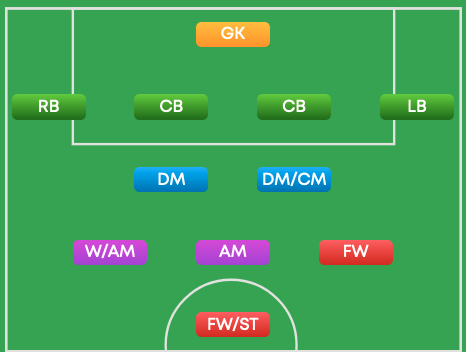
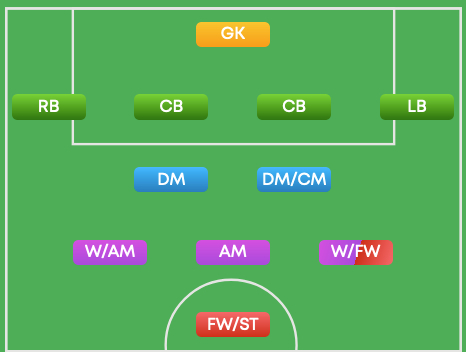
Update modules (#460)
* Update modules

* Update specs

Changed region(s): [[0.5408, 0.4688, 0.721, 0.5625], [0.2704, 0.4688, 0.4506, 0.5625], [0.6609, 0.6562, 0.8412, 0.75]]

diff --git a/public/javascripts/lib/GetFilledFormations.js b/public/javascripts/lib/GetFilledFormations.js
@@ -1,35 +1,35 @@
 const formations = {
     f343: {
-        lineUp: ['Dc', 'Dc', 'Dc', 'E', 'E', 'M/C', 'C', 'W/A', 'W/A', 'A/Pc' ],
-        lineUpWithReserve: ['Dc', 'Dc', 'Dc', 'E', 'E', 'M/C', 'C', 'W/A', 'W/A', 'A/Pc' , 'Dc', 'Dc', 'Dc', 'E', 'E', 'M/C', 'C', 'W/A', 'W/A', 'A/Pc'],
+        lineUp: ['Dc', 'Dc', 'Dc', 'E', 'E', 'M/C', 'C', 'W/A', 'W/A', 'A/Pc'],
+        lineUpWithReserve: ['Dc', 'Dc', 'Dc', 'E', 'E', 'M/C', 'C', 'W/A', 'W/A', 'A/Pc' , 'Dc', 'Dc', 'Dc', 'E', 'E', 'M/C', 'C', 'W/A', 'W/A', 'A/Pc']
     },
     f3412: {
-        lineUp: ['Dc', 'Dc', 'Dc', 'E', 'E', 'M/C', 'C', 'T', 'A/Pc', 'A/Pc' ],
-        lineUpWithReserve: ['Dc', 'Dc', 'Dc', 'E', 'E', 'M/C', 'C', 'T', 'A/Pc', 'A/Pc', 'Dc', 'Dc', 'Dc', 'E', 'E', 'M/C', 'C', 'T', 'A/Pc', 'A/Pc' ],
+        lineUp: ['Dc', 'Dc', 'Dc', 'E', 'E', 'M/C', 'C', 'T', 'A/Pc', 'Pc'],
+        lineUpWithReserve: ['Dc', 'Dc', 'Dc', 'E', 'E', 'M/C', 'C', 'T', 'A/Pc', 'Pc', 'Dc', 'Dc', 'Dc', 'E', 'E', 'M/C', 'C', 'T', 'A/Pc', 'Pc']
     },
     f3421: {
-        lineUp: ['Dc', 'Dc', 'Dc', 'E', 'E/W', 'M/C', 'M', 'T', 'T/A', 'A/Pc' ],
+        lineUp: ['Dc', 'Dc', 'Dc', 'E', 'E/W', 'M/C', 'M', 'T', 'T/A', 'A/Pc'],
         lineUpWithReserve: ['Dc', 'Dc', 'Dc', 'E', 'E/W', 'M/C', 'M', 'T', 'T/A', 'A/Pc' , 'Dc', 'Dc', 'Dc', 'E', 'E/W', 'M/C', 'M', 'T', 'T/A', 'A/Pc']
     },
     f352: {
-        lineUp: ['Dc', 'Dc', 'Dc', 'E', 'M', 'M/C', 'C', 'E/W', 'A/Pc', 'A/Pc' ] ,
-        lineUpWithReserve: ['Dc', 'Dc', 'Dc', 'E', 'M', 'M/C', 'C', 'E/W', 'A/Pc', 'A/Pc' , 'Dc', 'Dc', 'Dc', 'E', 'M', 'M/C', 'C', 'E/W', 'A/Pc', 'A/Pc' ]
+        lineUp: ['Dc', 'Dc', 'Dc', 'E', 'M', 'M/C', 'C', 'E/W', 'A/Pc', 'Pc'] ,
+        lineUpWithReserve: ['Dc', 'Dc', 'Dc', 'E', 'M', 'M/C', 'C', 'E/W', 'A/Pc', 'Pc' , 'Dc', 'Dc', 'Dc', 'E', 'M', 'M/C', 'C', 'E/W', 'A/Pc', 'Pc']
     },
     f3511: {
-        lineUp: ['Dc', 'Dc', 'Dc', 'E/W', 'M', 'M', 'C', 'E/W', 'T/A', 'A/Pc' ],
-        lineUpWithReserve: ['Dc', 'Dc', 'Dc', 'E/W', 'M', 'M', 'C', 'E/W', 'T/A', 'A/Pc', 'Dc', 'Dc', 'Dc', 'E/W', 'M', 'M', 'C', 'E/W', 'T/A', 'A/Pc' ]
+        lineUp: ['Dc', 'Dc', 'Dc', 'E/W', 'M', 'M', 'C', 'E/W', 'T/A', 'A/Pc'],
+        lineUpWithReserve: ['Dc', 'Dc', 'Dc', 'E/W', 'M', 'M', 'C', 'E/W', 'T/A', 'A/Pc', 'Dc', 'Dc', 'Dc', 'E/W', 'M', 'M', 'C', 'E/W', 'T/A', 'A/Pc']
     },
     f433: {
-        lineUp: ['Dc', 'Dc', 'Ds', 'Dd', 'M', 'M/C', 'C', 'W/A', 'W/A', 'A/Pc' ],
-        lineUpWithReserve: ['Dc', 'Dc', 'Ds', 'Dd', 'M', 'M/C', 'C', 'W/A', 'W/A', 'A/Pc', 'Dc', 'Dc', 'Ds', 'Dd', 'M', 'M/C', 'C', 'W/A', 'W/A', 'A/Pc' ]
+        lineUp: ['Dc', 'Dc', 'Ds', 'Dd', 'M', 'M/C', 'C', 'W/A', 'W/A', 'A/Pc'],
+        lineUpWithReserve: ['Dc', 'Dc', 'Ds', 'Dd', 'M', 'M/C', 'C', 'W/A', 'W/A', 'A/Pc', 'Dc', 'Dc', 'Ds', 'Dd', 'M', 'M/C', 'C', 'W/A', 'W/A', 'A/Pc']
     },
     f4312: {
-        lineUp: ['Dc', 'Dc', 'Ds', 'Dd', 'M', 'M/C', 'C', 'T', 'A/Pc', 'A/Pc' ],
-        lineUpWithReserve: ['Dc', 'Dc', 'Ds', 'Dd', 'M', 'M/C', 'C', 'T', 'A/Pc', 'A/Pc', 'Dc', 'Dc', 'Ds', 'Dd', 'M', 'M/C', 'C', 'T', 'A/Pc', 'A/Pc' ]
+        lineUp: ['Dc', 'Dc', 'Ds', 'Dd', 'M', 'M/C', 'C', 'T', 'A/Pc', 'Pc'],
+        lineUpWithReserve: ['Dc', 'Dc', 'Ds', 'Dd', 'M', 'M/C', 'C', 'T', 'A/Pc', 'Pc', 'Dc', 'Dc', 'Ds', 'Dd', 'M', 'M/C', 'C', 'T', 'A/Pc', 'Pc']
     },
     f442: {
-        lineUp: ['Dc', 'Dc', 'Ds', 'Dd', 'E', 'M/C', 'C', 'E/W', 'A/Pc', 'A/Pc'],
-        lineUpWithReserve: ['Dc', 'Dc', 'Ds', 'Dd', 'E', 'M/C', 'C', 'E/W', 'A/Pc', 'A/Pc', 'Dc', 'Dc', 'Ds', 'Dd', 'E', 'M/C', 'C', 'E/W', 'A/Pc', 'A/Pc']
+        lineUp: ['Dc', 'Dc', 'Ds', 'Dd', 'E', 'M/C', 'C', 'E/W', 'A/Pc', 'Pc'],
+        lineUpWithReserve: ['Dc', 'Dc', 'Ds', 'Dd', 'E', 'M/C', 'C', 'E/W', 'A/Pc', 'Pc', 'Dc', 'Dc', 'Ds', 'Dd', 'E', 'M/C', 'C', 'E/W', 'A/Pc', 'Pc']
     },
     f4141: {
         lineUp: ['Dc', 'Dc', 'Ds', 'Dd', 'M', 'E/W', 'C/T', 'T', 'W', 'A/Pc'],
@@ -40,8 +40,12 @@ const formations = {
         lineUpWithReserve: ['Dc', 'Dc', 'Ds', 'Dd', 'M', 'E/W', 'C', 'E/W', 'T/A', 'A/Pc', 'Dc', 'Dc', 'Ds', 'Dd', 'M', 'E/W', 'C', 'E/W', 'T/A', 'A/Pc']
     },
     f4231: {
-        lineUp: ['Dc', 'Dc', 'Ds', 'Dd', 'M', 'M/C', 'W/T', 'T', 'A', 'A/Pc'],
-        lineUpWithReserve: ['Dc', 'Dc', 'Ds', 'Dd', 'M', 'M/C', 'W/T', 'T', 'A', 'A/Pc', 'Dc', 'Dc', 'Ds', 'Dd', 'M', 'M/C', 'W/T', 'T', 'A', 'A/Pc']
+        lineUp: ['Dc', 'Dc', 'Ds', 'Dd', 'M', 'M/C', 'W/T', 'T', 'W/A', 'A/Pc'],
+        lineUpWithReserve: ['Dc', 'Dc', 'Ds', 'Dd', 'M', 'M/C', 'W/T', 'T', 'W/A', 'A/Pc', 'Dc', 'Dc', 'Ds', 'Dd', 'M', 'M/C', 'W/T', 'T', 'W/A', 'A/Pc']
+    },
+    f4321: {
+        lineUp: ['Dc', 'Dc', 'Ds', 'Dd', 'M', 'M/C', 'C', 'T/A', 'T/A', 'A/Pc'],
+        lineUpWithReserve: ['Dc', 'Dc', 'Ds', 'Dd', 'M', 'M/C', 'C', 'T/A', 'T/A', 'A/Pc', 'Dc', 'Dc', 'Ds', 'Dd', 'M', 'M/C', 'C', 'T/A', 'T/A', 'A/Pc']
     },
 };
 

diff --git a/spec/services/slots/creator_spec.rb b/spec/services/slots/creator_spec.rb
@@ -37,7 +37,7 @@ RSpec.describe Slots::Creator do
       end
 
       it 'creates team module' do
-        expect(TeamModule.count).to eq(12)
+        expect(TeamModule.count).to eq(13)
       end
 
       it 'creates slots' do
@@ -52,7 +52,7 @@ RSpec.describe Slots::Creator do
         creator.call
       end
 
-      it { expect(TeamModule.count).to eq(12) }
+      it { expect(TeamModule.count).to eq(13) }
     end
   end
 end
